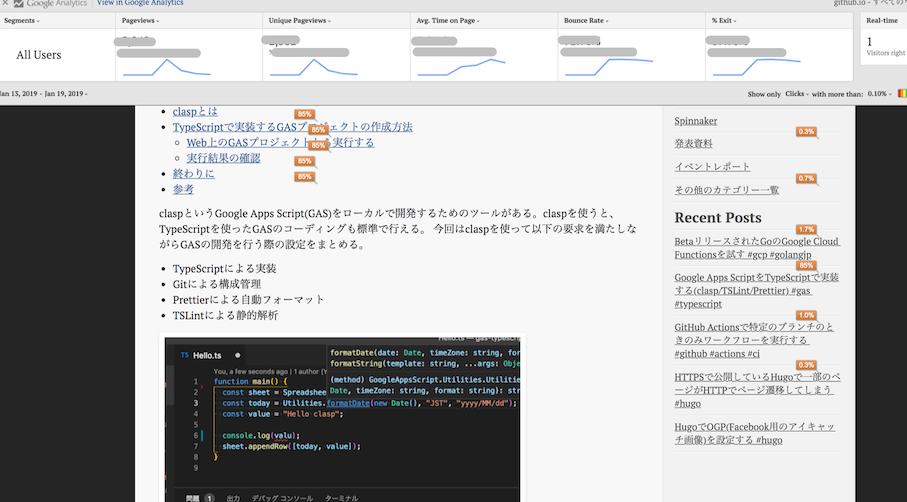
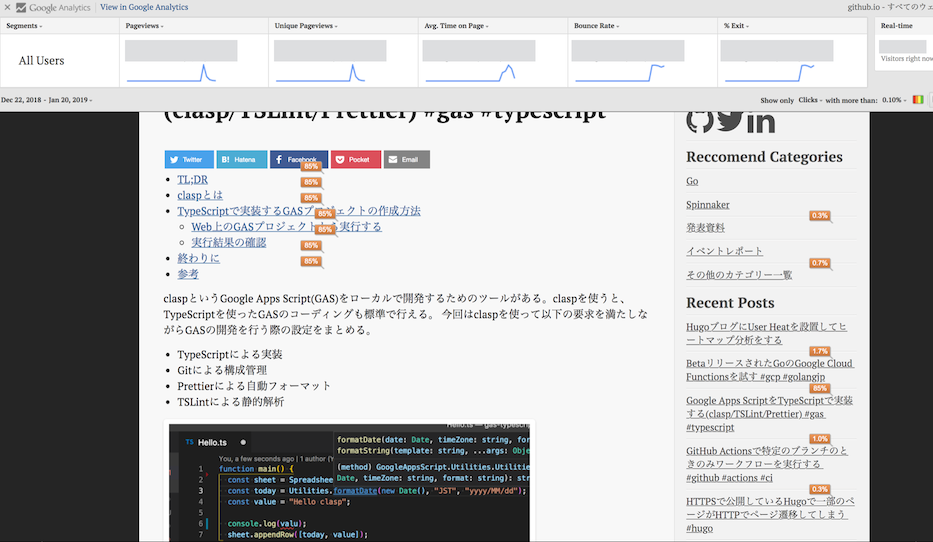
:+1: Add related link

diff --git a/themes/Hugo-Octopress/layouts/_default/single.html b/themes/Hugo-Octopress/layouts/_default/single.html
@@ -18,6 +18,7 @@
           {{ end }}
           {{ .Content }}
         </div>
+        {{ partial "related.html" . }}
         {{ partial "addthis" . }}
         {{ partial "addthis-script" . }}
         {{ partial "post_footer.html" . }}

diff --git a/layouts/partials/related.html b/layouts/partials/related.html
@@ -1,0 +1,9 @@
+{{ $related := .Site.RegularPages.Related . | first 3 }}
+{{ with $related }}
+<h2>関連記事</h2>
+<ul>
+  {{ range . }}
+  <li><a href="{{ .RelPermalink }}">{{ .Title }}</a></li>
+  {{ end }}
+</ul>
+{{ end }}

diff --git a/content/post/2018/06/15/cndjp6-review-kubernetes.md b/content/post/2018/06/15/cndjp6-review-kubernetes.md
@@ -247,11 +247,3 @@ https://github.com/kubernetes/kubernetes/blob/242a97307b34076d5d8f5bbeb154fa4d97
   - Introducing Container Storage Interface (CSI) Alpha for Kubernetes
     - https://kubernetes.io/blog/2018/01/introducing-container-storage-interface/
 
-# 関連
-- [[発表資料]Spinnaker入門 #cndjp5](/2018/04/27/spinnaker-introduction/)
-- [Cloud Native Developers JP 第1回勉強会 参加メモ #cndjp1](/2017/11/23/cndjp1/)
-- [[k8s]Cloud Native Developers JP 第2回勉強会 参加メモ #cndjp2](/2017/12/18/kubernetes-in-production-cndjp2/)
-- [[k8s]Cloud Native Developers JP 第3回勉強会 #cndjp3 参加メモ](/2018/02/03/kubernetes-with-availability-cndjp3/)
-- [Kubernetes Network Deep Dive!（Istioもあるよ） cndjp第四回参加メモ #cndjp4](/2018/04/01/kubernetes-network-deep-dive-cndjp4/)
-- [[k8s]あつまれ！ CI/CDツール大集合！ - cndjp第5回 参加メモ #cndjp5](/2018/05/02/cndjp5-cicd-tools/)
-

diff --git a/content/post/2018/04/27/spinnaker-introduction.md b/content/post/2018/04/27/spinnaker-introduction.md
@@ -87,11 +87,3 @@ https://stackoverflow.com/questions/tagged/spinnaker
 Slackでエラーメッセージを検索するとだいたい出てくる。
 
 
-# 関連
-- [GKEでSpinnakerを使ったKubernetesの継続的デリバリーを試してみた](/2018/04/24/spinnaker-with-google-kubernetes-engine/)
-- [Spinnakerの始め方いろいろ](/2018/04/22/how-to-start-spinnaker/)
-- [Cloud Native Developers JP 第1回勉強会 参加メモ #cndjp1](/2017/11/23/cndjp1/)
-- [[k8s]Cloud Native Developers JP 第2回勉強会 参加メモ #cndjp2](/2017/12/18/kubernetes-in-production-cndjp2/)
-- [[k8s]Cloud Native Developers JP 第3回勉強会 #cndjp3 参加メモ](/2018/02/03/kubernetes-with-availability-cndjp3/)
-- [[k8s]Kubernetes Network Deep Dive!（Istioもあるよ） cndjp第四回参加メモ #cndjp4](/2018/04/01/kubernetes-network-deep-dive-cndjp4.md)
-

diff --git a/content/post/2018/01/29/golangtokyo-12.md b/content/post/2018/01/29/golangtokyo-12.md
@@ -204,7 +204,3 @@ https://github.com/timakin/ssm2env
 これは個人開発をするときにも非常に参考になるなと言う内容だった。本発表のお二人のお話を聞くと、シンプルに作ることを目指していてそれがGoを使う理由、Goが使われる理由にもなるんだろうなという気持ち。  
 そしてそれを後押しするGCPという巨人。途中でも書いたが自分の今年の目標はGCP/k8s/gRPCなのでのんびりせずに早くGCPにデプロイしないとという気持ちになった。次回（通常回？リリースパーティ？）も参加するぞ。
 
-### 関連記事
-- [[Go]golang.tokyo #11 参加メモ #golangtokyo](/2017/12/12/golangtokyo-11/)
-- [AWS Lambda Go早めぐり(LambdaContext, Logging, Error...)](/2018/01/17/hello-aws-lambda-go/)
-

diff --git a/content/post/2018/05/30/debug-go-by-vim-go-and-delve.md b/content/post/2018/05/30/debug-go-by-vim-go-and-delve.md
@@ -172,7 +172,7 @@ $ vim ch01/ex02/echo.go
 UIに関しては`delve`をそのまま使うより、圧倒的にvim-goのほうがリッチだった気がする。
 ますますVimでGoを書くのが楽しくなった。
 
-# 関連
+# その他のDelveの記事
 - [[Go]MacのVSCodeでGoのデバッグを試すと"unexpected fault address..."エラーになる](/2017/12/24/activate-delve-on-mac/)
 - [Goのデバッガ(Delve)のいろいろな起動のしかた(引数を渡して起動、起動中のプロセスにアタッチして起動 etc...)](/2018/04/08/debug-by-delve/)
 

diff --git a/content/post/2018/04/01/kubernetes-network-deep-dive-cndjp4.md b/content/post/2018/04/01/kubernetes-network-deep-dive-cndjp4.md
@@ -181,7 +181,3 @@ Istioはローカルで実行するには最低でも4GB以上のメモリを利
 - [Istio|Architecture](https://istio.io/docs/concepts/what-is-istio/overview.html#architecture)
 - [Linkerd](https://linkerd.io/)
 
-# 関連
-- [Cloud Native Developers JP 第1回勉強会 参加メモ #cndjp1](/2017/11/23/cndjp1/)
-- [[k8s]Cloud Native Developers JP 第2回勉強会 参加メモ #cndjp2](/2017/12/18/kubernetes-in-production-cndjp2/)
-- [[k8s]Cloud Native Developers JP 第3回勉強会 #cndjp3 参加メモ](/2018/02/03/kubernetes-with-availability-cndjp3/)

diff --git a/content/post/2019/01/06/redirect-by-http-on-hugo.md b/content/post/2019/01/06/redirect-by-http-on-hugo.md
@@ -78,6 +78,3 @@ Hugoで生成したタグページの正式なURLは`${BASE_URL}/tags/index.html
 
 https://developers.google.com/web/tools/chrome-devtools/
 
-# 関連
-- [Hugoのブログ記事にTwitter Card(アイキャッチ画像)を設定する #hugo](2019/01/04/set-twitter-image-in-hugo-blog/)
-- [HugoでOGP(Facebook用のアイキャッチ画像)を設定する #hugo](/2019/01/05/set-ogp-in-hugo-blog/)

diff --git a/content/post/2018/04/18/go-conference-2018-spring.md b/content/post/2018/04/18/go-conference-2018-spring.md
@@ -393,6 +393,3 @@ https://slides.com/vvatanabe/replaced-backlogs-git-server-from-perl-to-go
 
 タイムオーバーだったので、最後のほうはスライドから読み取ったもの。ぜひ考察お聞きしたかった。
 
-# 関連
-- [Go Conference 2017 Autumn参加メモ #gocon](/2017/11/09/gocon2017-autumn/)
-
